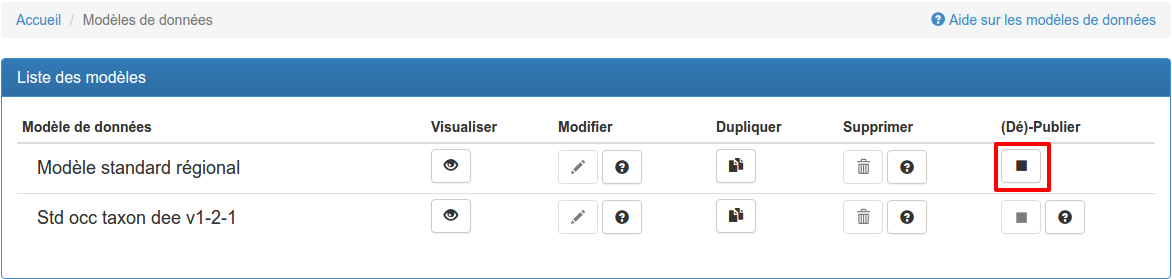
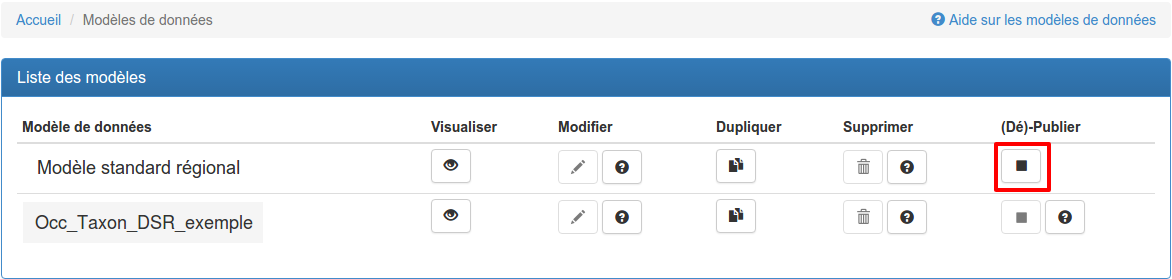
Update Documentation

Changed region(s): [[0.0307, 0.7455, 0.215, 0.8315]]

diff --git a/documentation/user/source/configurateur/modele-de-donnees.rst b/documentation/user/source/configurateur/modele-de-donnees.rst
@@ -6,23 +6,22 @@ Configurer les modèles de données
 Principe
 --------
 
-Un modèle de données est une description d'un ensemble de tables, de leurs attributs et de leurs relations hiérarchiques. Ce modèle de données est la brique de base pour décrire ensuite un modèle d'import, indispensable à l'import de données d'occurences de taxons.
+Un modèle de données est une description d'un ensemble de tables, de leurs attributs
+et de leurs relations hiérarchiques. Ce modèle de données est la brique de base
+pour décrire ensuite un modèle d'import, indispensable à l'import de données d'occurences
+de taxons.
 
-Chaque plateforme GINCO, régionale ou thématique, comprend nativement le modèle de données DEE.
-Les administrateurs régionaux peuvent créer un ou plusieurs modèles de données supplémentaires, qui seront accessibles
-aux utilisateurs de la plateforme.
+Chaque plateforme GINCO, régionale ou thématique, est livrée avec un modèle de données
+de base. Ce modèle contient tous les champs nécessaires à l'export des données en
+DEE et au fonctionnement de la plate-forme. Les administrateurs régionaux peuvent
+créer de nouveaux modèles de données en copiant le modèle de base et en l'étendant
+avec des champs régionaux utiles.
 
-.. warning:: Si vous souhaitez pouvoir diffuser et analyser localement les données régionales, nous vous conseillons néanmoins de limiter au maximum le nombre de standards régionaux; les modules de requête et de visualisation GINCO ne peuvent s'appliquer que sur un seul modèle de données à la fois.
+.. warning:: Si vous souhaitez pouvoir diffuser et analyser localement les données
+  régionales, nous vous conseillons néanmoins de limiter au maximum le nombre de
+  standards régionaux; les modules de requête et de visualisation GINCO ne peuvent
+  s'appliquer que sur un seul modèle de données à la fois.
 
-.. note::
-
-    Pour simplifier les processus de transformation des données dans l'application GINCO, les différents modèles
-    de données doivent être structurés selon le principe des poupées gigognes.
-
-    * Un modèle DSP doit comprendre tous les champs des modèles DSR et DEE.
-    * Le modèle de données DSR est un format pivot de la DEE qui doit comprendre tous les champs du modèle DEE,
-      plus éventuellement des champs spécifiques liés à des protocoles régionaux de collecte ou liés
-      à des champs de gestion.
 
 Créer un modèle de données
 --------------------------
@@ -30,19 +29,27 @@ Créer un modèle de données
 .. image:: ../images/data-models-1.png
 
 1. Cliquer sur "Modèles de données" dans le menu du haut pour accéder à la page de gestion des modèles de données.
-2. GINCO propose nativement un modèle de données initial : **le standard d'échange DEE 1.2.1 du SINP**.
+2. GINCO propose un modèle de données de base : **Occ_Taxon_DSR_exemple**.
 
-.. note:: Le modèle standard d'échange DEE n'est ni modifiable, ni supprimable.
+.. note:: Le modèle Occ_Taxon_DSR_exemple est le modèle de base. Il n'est
+    possible ni de le supprimer, ni de le modifier.
 
-Pour créer un nouveau modèle, vous pouvez soit le créer à partir de zéro, soit dupliquer un modèle existant :
+Pour créer un nouveau modèle, vous devez dupliquer le modèle DSR de base ou un
+modèle qui l'a étendu.
 
-3. Pour créer un nouveau modèle, cliquer sur "Créer un nouveau modèle de données".
-    Un modèle vierge, sans tables ni champs, sera créé.
-4. Une autre manière de créer un modèle de données est de copier un modèle existant,
-    en cliquant sur l'icône "Dupliquer" correspondante. Un modèle contenant les mêmes tables et champs que
-    le modèle initial sera créé.
+.. warning :: Il est encore possible de créer un modèle à partir de rien, mais cette méthode
+  est fortement déconseillée. C'est un processus laborieux et un peu dangereux
+  parce que rien de garanti que le modèle ainsi configuré permettra l'export
+  correct en DEE et que tous les champs techniques nécessaires au bon fonctionnement
+  de la plate-forme seront présents.
 
-Dans les deux cas, vous devez indiquer le nom de votre nouveau modèle ainsi qu'une description (facultative) :
+3. Pour copier un modèle existant, cliquer sur l'icône "Dupliquer" correspondante.
+  Un modèle contenant les mêmes tables et champs que le modèle initial sera créé.
+  Vous ne devez pas modifier ou supprimer des champs provenant du modèle DSR
+  de base.
+
+Vous pourrez alors indiquer le nom de votre nouveau modèle ainsi qu'une description
+(facultative) :
 
 .. image:: ../images/new-data-model.png
 
@@ -52,13 +59,19 @@ Votre nouveau modèle est visible sur la page de gestion des modèles de donnée
 
 2. Le nouveau modèle n'est pas publié sur la plateforme,
     comme l'indique le bouton "Publier" présent (flèche droite, ou bouton de lecture),
-    contrairement au modèle DEE, comme l'indique le bouton "Dépublier" (carré, ou bouton d'arrêt de lecture).
+    contrairement au modèle Occ_Taxon_DSR_exemple, comme l'indique le bouton "Dépublier" (carré, ou bouton d'arrêt de lecture).
 3. et 4. Vous pouvez donc le modifier et le supprimer (les boutons sont actifs),
-    contrairement au modèle DEE (ses
+    contrairement au modèle Occ_Taxon_DSR_exemple (ses
     boutons sont inactifs) : en effet, il n'est possible de modifier/supprimer un modèle que s'il n'est pas publié
     sur la plateforme (voir `Publier / Dépublier un modèle de données`_).
 
-.. note:: Lorsque vous souhaitez modifier un modèle de données, une fenêtre modale apparaîtra vous indiquant que les éventuels mappings configurés seront supprimés. Ceci est normal car il est impossible de prévoir une cohérence entre les champs mappés si des modifications sont prêtes à être effectuées. Lorsque vous souhaitez modifier un modèle de données, les mappings seront donc supprimés, **même si vous n'effectuez pas de modifications**.
+.. note:: Lorsque vous souhaitez modifier un modèle de données, un message vous
+  indiquera que les éventuels association de champs avec les fichiers d'import
+  seront perdus. Cela s'explique par le fait qu'il est très difficile de maintenir
+  la cohérence sur ces relations alors que la structure des données va être modifiée.
+  Lorsque vous souhaitez modifier
+  un modèle de données, les correspondances de champs entre tables et fichiers seront
+  donc perdues, **même si finalement, vous n'effectuez pas de modifications**.
 
 Configurer les tables et les champs d'un modèle de données
 ----------------------------------------------------------
@@ -114,7 +127,7 @@ Les différentes fonctionnalités de cet écran sont décrites ci-dessous.
 
 .. note:: Un champ ne peut être présent en doublon dans une table.
 
-5. **Créer un nouveau champ** : l'écran permet de décrire un nouveau champ, qui sera ajouté au dictionnaire de données ET rattaché directement à la table. 
+5. **Créer un nouveau champ** : l'écran permet de décrire un nouveau champ, qui sera ajouté au dictionnaire de données ET rattaché directement à la table.
 
 .. image:: ../images/configurateur/configurateur-table-ajout-nouveau-champ.png
 
@@ -159,7 +172,9 @@ Lors de la configuration de votre modèle d'import, il est donc nécessaire que 
 Publier / dépublier un modèle de données
 ----------------------------------------
 
-Lorsque vous avez terminé de configurer votre modèle, et que vous souhaitez le rendre disponible pour publication, il suffit de cliquer sur le bouton de lecture dans le tableau des modèles de données :
+Lorsque vous avez terminé de configurer votre modèle, et que vous souhaitez le rendre
+disponible pour publication, il suffit de cliquer sur le bouton de lecture dans
+le tableau des modèles de données :
 
 .. image:: ../images/configurateur/configurateur-modele-publication.png
 
@@ -173,9 +188,13 @@ Le modèle de données sera alors disponible en production.
 
 Si toutes ces conditions ne sont pas atteintes, le bouton de publication est grisé.
 
-.. note:: Une fois publié, le modèle de données ne peut plus être ni supprimé ni modifié. Vous pouvez toutefois continuer à consulter sa configuration en visualisant son contenu (bouton Visualiser).
+.. note:: Une fois publié, le modèle de données ne peut plus être ni supprimé ni
+    modifié. Vous pouvez toutefois continuer à consulter sa configuration en visualisant
+    son contenu (bouton Visualiser).
 
-La publication est la première étape à effectuer dans le processus de mise à disposition de vos données. Elle est la brique nécessaire pour la publication d'un modèle d'import de fichiers dont le modèle de données cible sera le modèle que vous aurez au préalable publié.
+La publication est la première étape à effectuer dans le processus de mise à disposition
+de vos données. Elle est nécessaire à la publication des modèles d'import de
+fichiers qui vont alimenter ce modèle de données.
 
 Lorsque vous publiez un modèle de données, toutes les tables qui y ont été configurées sont générées en base de données.
 
@@ -185,4 +204,5 @@ Si vous souhaitez dépublier un modèle de données, il suffit de cliquer sur le
 
 A la dépublication d'un modèle de données, tous les modèles d'import qui lui sont associés seront également dépubliés. Il ne vous sera alors plus possible de téléverser des données d'observation.
 
-.. note:: Il n'est pas possible de dépublier un modèle de données si des données lui correspondant ont été insérées dans la base de données.
+.. warning:: Il n'est pas possible de dépublier un modèle de données si des données
+    ont été insérées dans les tables de ce modèle.
